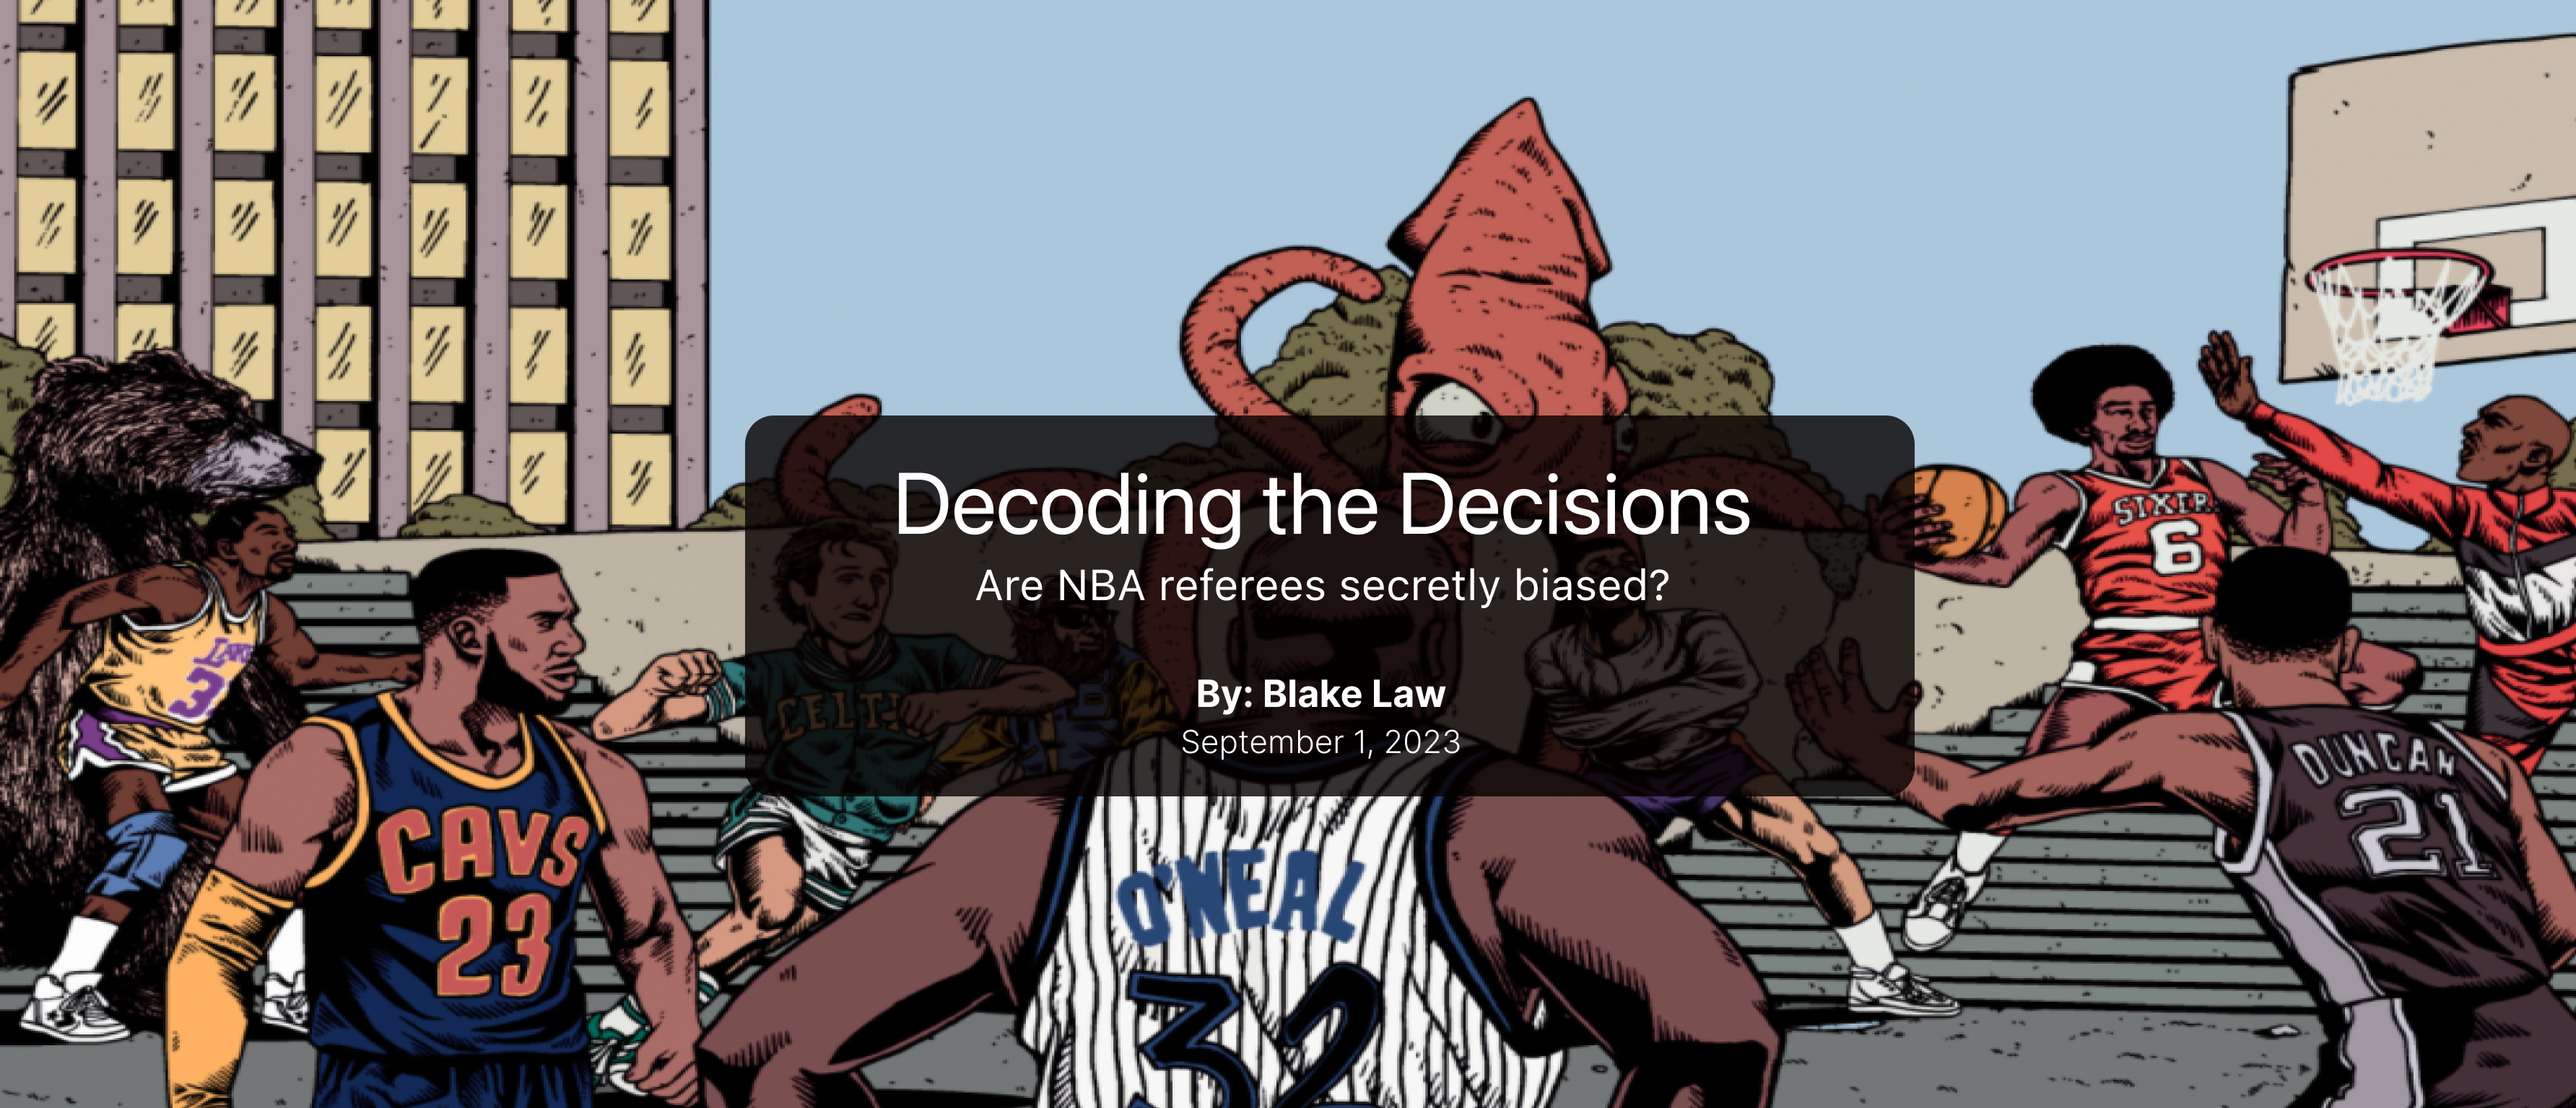
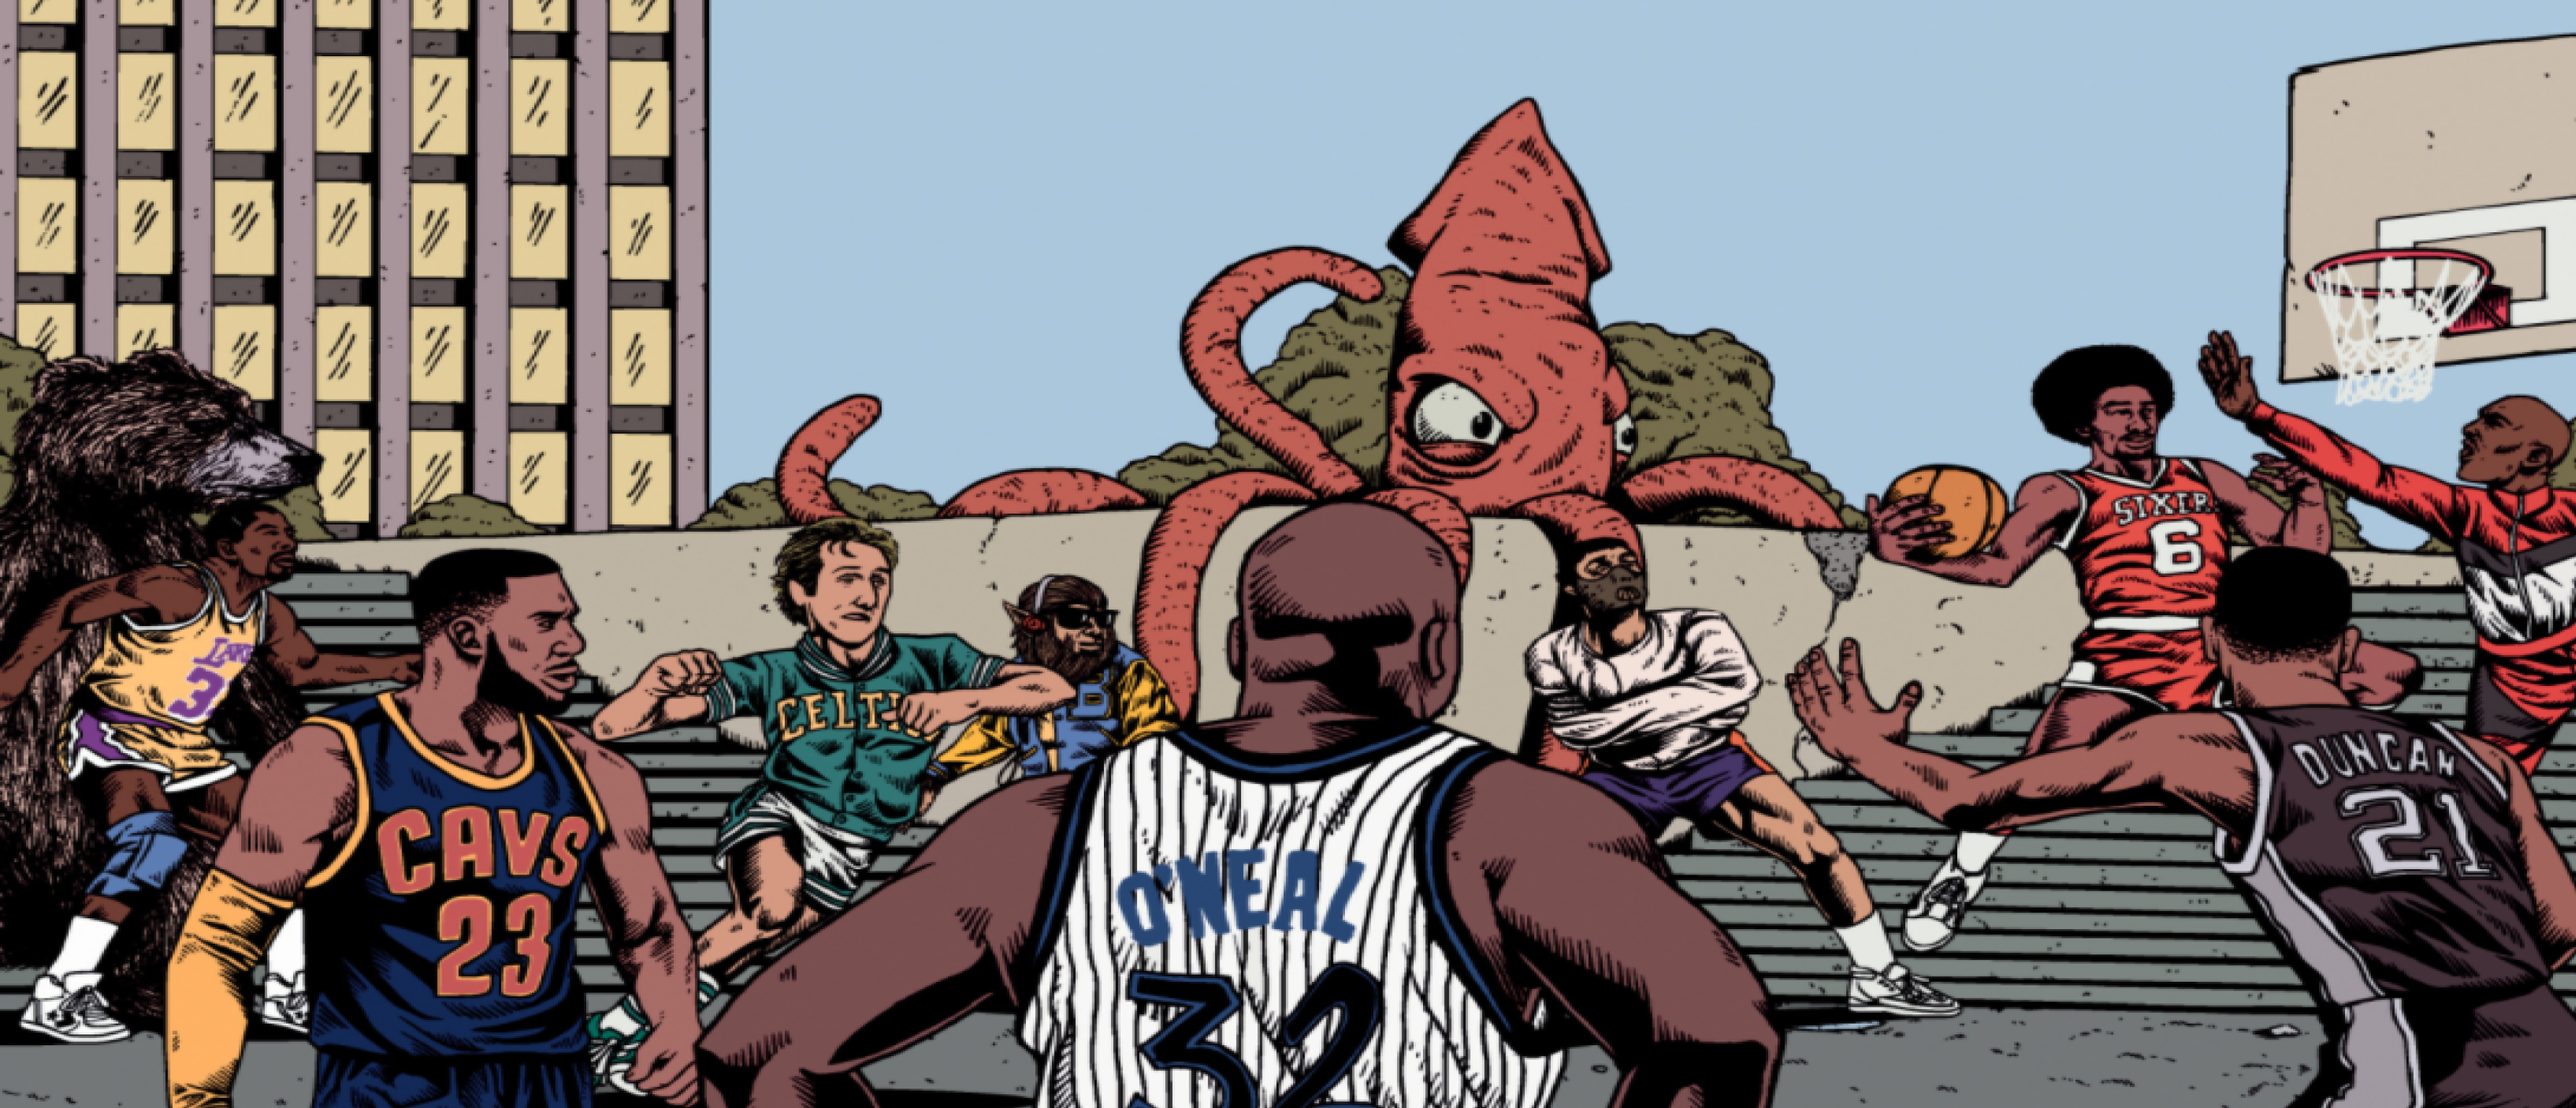
small changes

Changed region(s): [[0.28, 0.375, 0.7466, 0.7188]]

diff --git a/_portfolio/nba-referee.md b/_portfolio/nba-referee.md
@@ -7,41 +7,92 @@ author_profile: false
 collection: portfolio
 ---
 <style>
-.full-screen-width {
-  position: relative;
-  left: -375px; /* This might need adjustment based on your page layout */
-  max-width: 102vw;
-  width: 102vw;
-  padding: 20px;
-  display: block;
-  margin: auto;
-  margin-top: -68px; /* Adjust this value as needed to push the image to the top */
-  margin-bottom: 0; /* Remove bottom margin */
-  padding-bottom: 0; /* Remove bottom padding */
+@import url('https://fonts.googleapis.com/css2?family=Inter:wght@300;400;700&display=swap');
+
+/* Ensure the body has no margin, which could prevent the image from touching the left side */
+body, html {
+  margin: 0;
+  padding: 0;
+  overflow-x: hidden; /* Prevent horizontal scroll */
 }
 
-.custom-hr {
-  border: none;
-  border-top: 1px solid lightgrey;
-  margin-top: 1px; /* Adjust this value as needed */
-  width: 100vw; /* Set the width to be 100% of the viewport width */
-  position: relative; /* Set position relative to enable left offset */
-  left: calc(-50vw + 50%); /* Center the line */
-  right: 0;
-  margin-left: 0; /* Reset any default margin */
-  margin-right: 0; /* Reset any default margin */
+.full-screen-background {
+  display: flex;
+  justify-content: center;
+  align-items: center;
+  width: 100vw; /* Full viewport width */
+  height: 70vh; /* Adjusted height */
+  background-image: url('/images/title.png'); /* Update with the correct path */
+  background-size: cover;
+  background-position: center center;
+  position: absolute; /* or 'fixed' if you want it to stay in place on scroll */
+    left: 0; /* Align to the very left of the viewport */
+    top: 11vh; /* Align to the very top of the viewport */
+    right: 0; /* Ensure it stretches to the very right of the viewport */
+    margin: 0; /* Override any inherited margins */
 }
+
+.overlay-text {
+  text-align: center;
+  font-family: 'Inter', sans-serif;
+  background-color: rgba(0, 0, 0, 0.8);
+  border-radius: 10px;
+  padding: 1em; /* Adjusted padding */
+  box-sizing: border-box;
+  color: white;
+  width: 80%;
+  max-width: 600px;
+  position: absolute;
+  top: 50%;
+  left: 50%;
+  transform: translate(-50%, -50%);
+}
+
+/* Adjust the margins between lines as needed */
+.overlay-text h1 {
+  font-size: 3em;
+  font-weight: 700;
+  margin: 0 0 0.1em 0; /* Increased space after the title */
+}
+
+.overlay-text h2 {
+  font-size: 1.5em;
+  font-weight: 400;
+  margin: 0 0 0.5em 0; /* Increased space after the subtitle */
+}
+
+.overlay-text h3 {
+  font-size: 1em;
+  font-weight: 700;
+  margin: 0 0 0.25em 0; /* Smaller space after the byline */
+}
+
+.overlay-text p {
+  font-size: 0.75em;
+  font-weight: 300;
+  margin: 0; /* No additional space after the date */
+}
+
+/* Additional CSS */
 </style>
 
-<img src="/images/Title.png" class="full-screen-width" />
-<hr class="custom-hr">
+<div class="full-screen-background">
+  <div class="overlay-text">
+    <h1>Decoding the Decisions</h1>
+    <h2>Are NBA referees secretly biased?</h2>
+    <h3>By: Blake Law</h3>
+    <p>September 1, 2023</p>
+  </div>
+</div>
+
+<!-- Rest of the content -->
 
 
 
 
-*Find the source code for the article [here](https://github.com/blakelaw/Referee-Analysis).* 
+<div style="margin-top: 29em;">
 
-
+<i>Find the source code for this project <a href="https://github.com/blakelaw/Referee-Analysis">here</a></i><br><br>
 
 Across every sport, fans will boo referees when a call doesn't go their way. They emphatically explain how they're being paid off and rigging it in real time. Basketball is no exception. And indeed, there may have been 
 <a href="https://www.npr.org/2008/06/12/91415111/ex-referee-says-2002-nba-playoff-was-rigged">cases</a> of referees interfering and throwing a game, but how large of an effect are they really having on a daily basis?
@@ -53,7 +104,7 @@ To answer this, I pored through a <a href="https://www.kaggle.com/datasets/wyatt
 
 The most basic way of seeing how much a particular referee impacts a team is by calculating the average score of the team over the dataset (in this particular case, starting in the 1996 NBA season -- referee data isn't included before then), and then comparing that the to average score of the team when a particular referee officiates the game. This is easy to do in Python by connecting to the SQL database with the sqlite3 library then creating a dataframe in pandas.
 
-After conducting exploratory analysis on the dataframe, a new table was generated showing the specific referee and NBA team combinations along with the differential compared to how that team normally performs. To ensure the analysis includes only referees who have officiated a substantial number of games for a given team, a threshold of a minimum of 30 games officiated per team was set. Presented below are the top ten referee-team pairings ranked by the absolute value of the difference in average scores.
+After conducting exploratory analysis on the dataframe, a new table was generated showing the specific referee and NBA team combinations along with the differential compared to how that team normally performs. To ensure the analysis includes only referees who have officiated a substantial number of games for a given team, a threshold of a minimum of 30 games officiated per team was set. Presented below are the top ten referee-team pairings ranked by the absolute value of the difference in average scores.<br><br>
 
 <iframe title="Largest Referee-Team Discrepancies in Total Scoring" aria-label="Table" id="datawrapper-chart-zlDrb" src="https://datawrapper.dwcdn.net/zlDrb/7/" scrolling="no" frameborder="0" style="width: 0; min-width: 100% !important; border: none;" height="542" data-external="1"></iframe><script type="text/javascript">!function(){"use strict";window.addEventListener("message",(function(a){if(void 0!==a.data["datawrapper-height"]){var e=document.querySelectorAll("iframe");for(var t in a.data["datawrapper-height"])for(var r=0;r<e.length;r++)if(e[r].contentWindow===a.source){var i=a.data["datawrapper-height"][t]+"px";e[r].style.height=i}}}))}();
 </script>
@@ -88,7 +139,7 @@ Rather than calculating the average over the full dataset, an "Elo" rating syste
 
 In the previous example with Petraitas, instead of the Wizard's 146-149 loss on 1/31/21 counting as a 47 point deviation, it is roughly 31 points. 
 
-This analysis paints a much less extreme picture. Presented below are the top ten referee-team pairings using this revised metric:
+This analysis paints a much less extreme picture. Presented below are the top ten referee-team pairings using this revised metric:<br><br>
 
 <iframe title="Largest Referee-Elo Discrepancies" aria-label="Table" id="datawrapper-chart-TPG4L" src="https://datawrapper.dwcdn.net/TPG4L/1/" scrolling="no" frameborder="0" style="width: 0; min-width: 100% !important; border: none;" height="509" data-external="1"></iframe><script type="text/javascript">!function(){"use strict";window.addEventListener("message",(function(a){if(void 0!==a.data["datawrapper-height"]){var e=document.querySelectorAll("iframe");for(var t in a.data["datawrapper-height"])for(var r=0;r<e.length;r++)if(e[r].contentWindow===a.source){var i=a.data["datawrapper-height"][t]+"px";e[r].style.height=i}}}))}();
 </script>
@@ -146,7 +197,7 @@ scores <- pca_result$x
 data_with_scores <- cbind(data_for_pca, scores)
 {% endhighlight %}
 
-Two parameters for prcomp, `scale. = TRUE` and `center = TRUE`, indicate that standardization is performed internally, making prior normalization optional. However, standardizing the original dataframe provides flexibility for potential use in other contexts where automatic standardization is not available. To interpret the principal components, attention is first given to the relative weights or loadings assigned to each variable by running `print(pca_result$rotation)`.
+Two parameters for prcomp, <code>scale. = TRUE</code> and <code>center = TRUE</code>, indicate that standardization is performed internally, making prior normalization optional. However, standardizing the original dataframe provides flexibility for potential use in other contexts where automatic standardization is not available. To interpret the principal components, attention is first given to the relative weights or loadings assigned to each variable by running <code>print(pca_result$rotation)</code>.
 
 {% include my_table2.html %}
 
@@ -160,7 +211,7 @@ In the first component, many of the loadings were in the 0.25-0.30 range (in abs
 
 In the second component, which is mathematically uncorrelated with the first, the weights are completely different. Assists go from having a weight of -0.309 to -0.001. In this second component, defensive measures take importance. Now, steals and blocks have the highest magnitude weights: -0.550 and -0.619, respectively. Free throws made (0.259) is  also relatively high. The offensive stats such as pts and fgm now score relatively low, under 0.1.
 
-The first component can be conceptualized as capturing offensive variance, while the second focuses primarily on defensive aspects. Referees affecting offensive statistics will deviate from a PC1 value of zero, and those impacting defensive statistics will show variation along PC2. To visualize these relationships, the weights are projected onto the calculated statistics for each referee, allowing examination of individual performance in the context of the number of games officiated, as well as precise PC1 and PC2 values.
+The first component can be conceptualized as capturing offensive variance, while the second focuses primarily on defensive aspects. Referees affecting offensive statistics will deviate from a PC1 value of zero, and those impacting defensive statistics will show variation along PC2. To visualize these relationships, the weights are projected onto the calculated statistics for each referee, allowing examination of individual performance in the context of the number of games officiated, as well as precise PC1 and PC2 values.<br><br>
 
 <iframe title="NBA Referees by Principal Components" aria-label="Scatter Plot" id="datawrapper-chart-suU3Z" src="https://datawrapper.dwcdn.net/suU3Z/1/" scrolling="no" frameborder="0" style="width: 0; min-width: 100% !important; border: none;" height="400" data-external="1"></iframe><script type="text/javascript">!function(){"use strict";window.addEventListener("message",(function(a){if(void 0!==a.data["datawrapper-height"]){var e=document.querySelectorAll("iframe");for(var t in a.data["datawrapper-height"])for(var r=0;r<e.length;r++)if(e[r].contentWindow===a.source){var i=a.data["datawrapper-height"][t]+"px";e[r].style.height=i}}}))}();
 </script>
@@ -181,13 +232,42 @@ However, a few caveats. It's more than likely Referees A and F are Dick Bavetta 
 
 <h4 style="font-size: 24px;">Method 4: Propensity Score Matching</h4>
 
-While the analysis has employed quantitative metrics, it has yet to assess the improbability of each result. For instance, with the second metric, how unlikely is it that a given team-referee combination has a 4 point deviation from the average. 5% chance? 1%? 0.1%? To account for this, the fourth method uses <strong>propensity score matching</strong>. In propensity score matching, the effect of a treatment, here the presence of a specific referee, is estimated by matching one game to another similar game based on chosen metrics. The selected covariates for this matching process include the home team's win percentage at home, the away team's win percentage when away, and the time the game took place to factor in changes in rules and gameplay. For instance, the model matched these two games:
+While the analysis has employed quantitative metrics, it has yet to assess the improbability of each result. For instance, with the second metric, how unlikely is it that a given team-referee combination has a 4 point deviation from the average. 5% chance? 1%? 0.1%? To account for this, the fourth method uses <strong>propensity score matching</strong>. In propensity score matching, the effect of a treatment, here the presence of a specific referee, is estimated by matching one game to another similar game based on chosen metrics. The selected covariates for this matching process include the home team's win percentage at home, the away team's win percentage when away, and the time the game took place to factor in changes in rules and gameplay. For instance, the model matched these two games:<br>
 
 
-| Referee Name | Game       | Home Win Pct | Away Win Pct | Date       | W/L (Home) | Propensity Score |
-|--------------|------------|--------------|--------------|------------|------------|------------------|
-| Tim Donaghy  | DET vs GSW | 74.5%        | 22.9%        | 2004-01-03 | W          | 0.849            |
-| Jane Smith   | DAL vs LAC | 80.5%        | 20.0%        | 2009-01-06 | W          | 0.849            |
+<table>
+  <thead>
+    <tr>
+      <th>Referee Name</th>
+      <th>Game</th>
+      <th>Home Win Pct</th>
+      <th>Away Win Pct</th>
+      <th>Date</th>
+      <th>W/L (Home)</th>
+      <th>Propensity Score</th>
+    </tr>
+  </thead>
+  <tbody>
+    <tr>
+      <td>Tim Donaghy</td>
+      <td>DET vs GSW</td>
+      <td>74.5%</td>
+      <td>22.9%</td>
+      <td>2004-01-03</td>
+      <td>W</td>
+      <td>0.849</td>
+    </tr>
+    <tr>
+      <td>Jane Smith</td>
+      <td>DAL vs LAC</td>
+      <td>80.5%</td>
+      <td>20.0%</td>
+      <td>2009-01-06</td>
+      <td>W</td>
+      <td>0.849</td>
+    </tr>
+  </tbody>
+</table>
 
 
 The propensity score is based on a <strong>logistic regression</strong> model. To achieve this, a 'W' for the home team is converted to a 1, and an 'L' to a 0. A model is then created using the previously mentioned independent variables:
@@ -219,6 +299,13 @@ result_df = psm_data.apply(lambda row: pd.concat([row, find_closest_match(row)])
 
 With every game now matched, paired t-tests were conducted for each referee. These tests compared the W/L distribution of the referee against all corresponding matches. If a significant difference in winning percentage is observed, it may be inferred that the referee's presence is influencing the game outcome. Upon completing the t-tests, metrics such as t-statistic (how far the statistic is from the null hypothesis), p-value (probability of observing the data if the null hypothesis is true), and Cohen's d (a measure of effect size; generally d > 0.8 is considered large) were calculated. The top 10 referees by lowest p-values are shown below:
 
-![Table of p-values](https://camo.githubusercontent.com/997798ca37b9966b83a16d058c6558f9ffaa837c958fa7a17a5d18d25f7fbea3/68747470733a2f2f692e696d6775722e636f6d2f644d466b4573462e706e67)
+<hr>
+<div class="text-center">
+    <div class="col-sm mt-3 mt-md-0">
+        <img src="https://camo.githubusercontent.com/997798ca37b9966b83a16d058c6558f9ffaa837c958fa7a17a5d18d25f7fbea3/68747470733a2f2f692e696d6775722e636f6d2f644d466b4573462e706e67" alt="example image" style="max-width:90%; border: 1px solid #ccc; border-radius: 8px; box-shadow: 0 4px 8px rgba(0, 0, 0, 0.1);" />
+    </div>
+</div>
+<hr>
 
 Therefore, based on this matching technique, there is no evidence <i>any</i> referee significantly impacts NBA games, assuming a 5% significance level. Given the NBA's emphasis on officiating, this isn't shocking. So, if you're worried about referees skewing game outcomes, relax -- for now. 
+</div>
